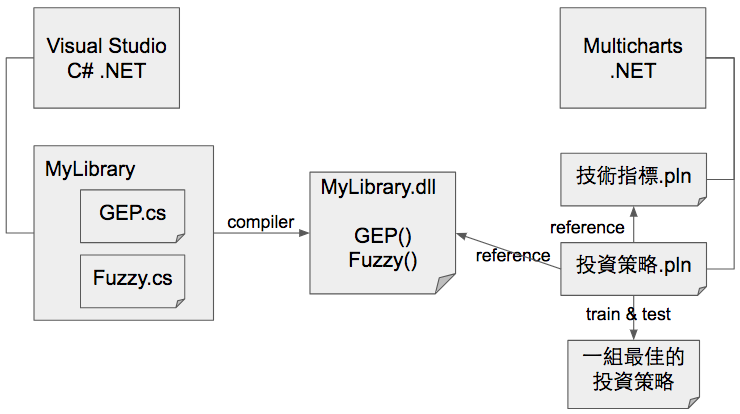
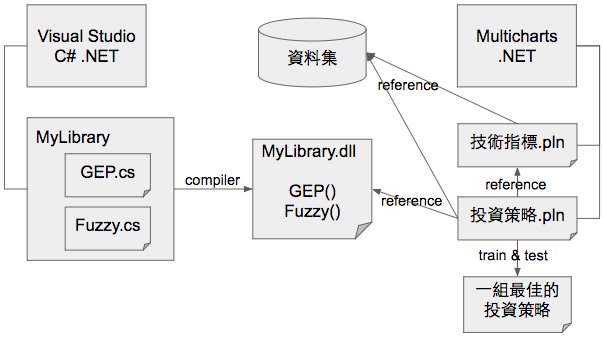
論文資料整理。

diff --git a/README.md b/README.md
@@ -18,7 +18,11 @@
 
 ### MultiCharts
 
-參考 MyLibrary.dll 撰寫投資策略，並導入歷史資料進行訓練和測試，找出一組最佳的投資策略。
+首先，技術指標.pln 根據資料集求出 KD、RSA 等指標值，
+
+其後，投資策略.pln 會參考 MyLibrary.dll 的演算法 和 技術指標.pln 求出的指標值，
+
+進行期貨交易，據以訓練和測試機械學習模型，目的是找出一組最佳的投資策略。
 
 ## 簡報
 
